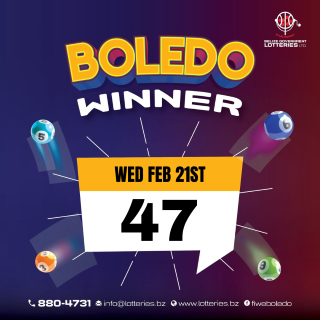
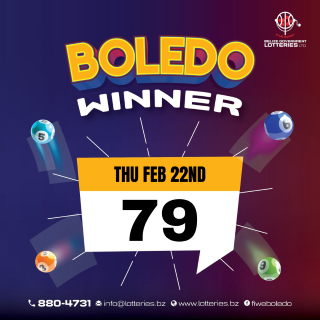
Updated Winning Number

Changed region(s): [[0.375, 0.625, 0.625, 0.7812], [0.3438, 0.5, 0.6562, 0.5938]]

diff --git a/winningNumbers.js b/winningNumbers.js
@@ -72,6 +72,7 @@ var ordinaryLotteryDatabase = {
     "04/02/2024": '45',
     "11/02/2024": '99',
     "18/02/2024": '94',
+    "25/02/2024": '03',
 
 };
 
@@ -88,4 +89,5 @@ var jackpotDatabase = {
     "04/02/2024": ['8645', '6929', '5287'],
     "11/02/2024": ['0999', '0868', '6252'],
     "18/02/2024": ['0794', '7999', '3357'],
+    "25/02/2024": ['6303', '6502', '3210'],
 };
